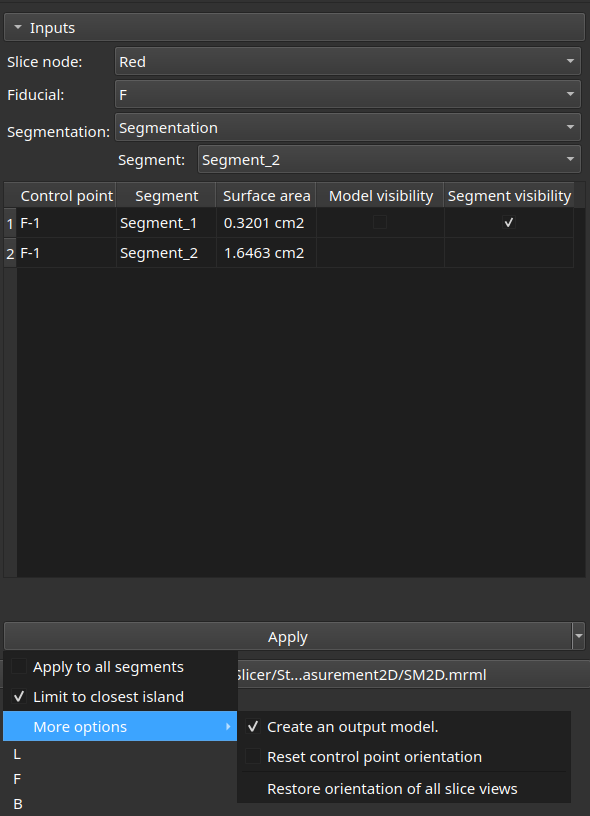
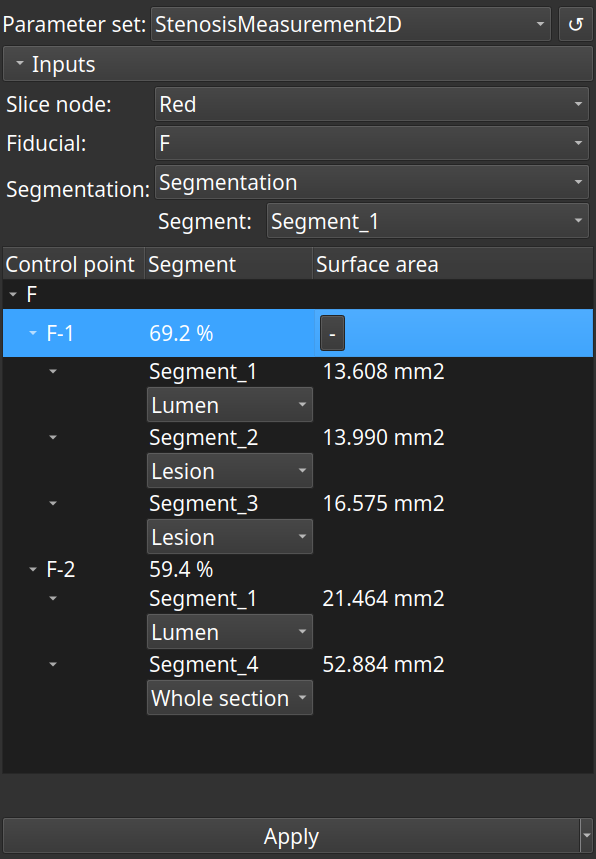
Allow to calculate the stenosis degree.
StenosisMeasurement2D

The stenosis degree is calculated from consistent categories assigned to
each measurement at a given location.

Pull request: StenosisMeasurement2D: Allow to calculate the stenosis degree
2bcec61 Use a QTreeWidget as the presentation table.
StenosisMeasurement2D

This widget is more flexible to add control widgets in the result rows.
\----------------------------

2ebdfc3 Allow to calculate the stenosis degree.
StenosisMeasurement2D

The stenosis degree is calculated from consistent categories assigned to
each measurement at a given location.
\----------------------------

diff --git a/StenosisMeasurement2D/StenosisMeasurement2D.py b/StenosisMeasurement2D/StenosisMeasurement2D.py
@@ -152,7 +152,7 @@ class StenosisMeasurement2DWidget(ScriptedLoadableModuleWidget, VTKObservationMi
     self.initializeParameterNode()
 
   # Show or hide the output model.
-  def onShowModelCheckBox2(self, checkStatus) -> None:
+  def onShowModelCheckBox(self, checkStatus) -> None:
     treeItem = self.ui.outputTreeWidget.currentItem()
     if (not treeItem):
       self.showStatusMessage((_("No item is currently selected in the tree widget."),), True)
@@ -162,7 +162,7 @@ class StenosisMeasurement2DWidget(ScriptedLoadableModuleWidget, VTKObservationMi
       cutModel.SetDisplayVisibility(checkStatus)
 
   # Show or hide the input segment.
-  def onShowSegmentCheckBox2(self, checkStatus) -> None:
+  def onShowSegmentCheckBox(self, checkStatus) -> None:
     segmentation = self.ui.inputSegmentSelector.currentNode()
     if not segmentation:
         self.showStatusMessage((_("Input segmentation is invalid"),), True)
@@ -220,6 +220,7 @@ class StenosisMeasurement2DWidget(ScriptedLoadableModuleWidget, VTKObservationMi
     """
     Called just after the scene is closed.
     """
+    self.ui.outputTreeWidget.clear()
     # If this module is shown while the scene is closed then recreate a new parameter node immediately
     if self.parent.isEntered:
       self.initializeParameterNode()
@@ -369,7 +370,7 @@ class StenosisMeasurement2DWidget(ScriptedLoadableModuleWidget, VTKObservationMi
         return item
     return None
 
-  # Get a tree item by the crontrol point ID it is referencing.
+  # Get a tree item by the control point ID it is referencing.
   def _getTreeItemByControlPointId(self, parentItem, controlPoindId):
     if (not parentItem) or (int(controlPoindId) < 0):
       return None
@@ -526,11 +527,11 @@ class StenosisMeasurement2DWidget(ScriptedLoadableModuleWidget, VTKObservationMi
         showSegmentAction = measurementControllerMenu.addAction(_("Segment visibility"))
         showSegmentAction.setObjectName(self.moduleName + ".ShowSegmentAction")
         showSegmentAction.setCheckable(True)
-        showSegmentAction.connect("toggled(bool)", self.onShowSegmentCheckBox2)
+        showSegmentAction.connect("toggled(bool)", self.onShowSegmentCheckBox)
         showModelAction = measurementControllerMenu.addAction(_("Model visibility"))
         showModelAction.setObjectName(self.moduleName + ".ShowModelAction")
         showModelAction.setCheckable(True)
-        showModelAction.connect("toggled(bool)", self.onShowModelCheckBox2)
+        showModelAction.connect("toggled(bool)", self.onShowModelCheckBox)
         measurementController.setMenu(measurementControllerMenu)
         measurementController.connect("clicked()", measurementController.showMenu)
         measurementControllerWidget = self._constrainWidgetInHLayout(measurementController)
@@ -544,6 +545,68 @@ class StenosisMeasurement2DWidget(ScriptedLoadableModuleWidget, VTKObservationMi
         measurementItem.setData(2, qt.Qt.UserRole, cutModel)
         area = areaUnitNode.GetDisplayStringFromValue(tuples[segmentID][0])
         measurementItem.setText(2, area)
+
+        # Add a combobox to define a measurement as category.
+        typeItem = qt.QTreeWidgetItem()
+        measurementItem.addChild(typeItem)
+        typeComboBox = qt.QComboBox()
+        typeComboBox.addItem(_("N/A"), TYPE_NA)
+        typeComboBox.addItem(_("Lumen"), TYPE_LUMEN)
+        typeComboBox.addItem(_("Lesion"), TYPE_LESION)
+        typeComboBox.addItem(_("Whole section"), TYPE_WHOLE_SECTION)
+        typeComboBox.setToolTip(_("Select a measurement category."))
+        outputTree.setItemWidget(typeItem, 1, typeComboBox)
+        # Store the calculated unformatted area,
+        typeItem.setData(1, qt.Qt.UserRole, tuples[segmentID][0])
+        # and the control point id.
+        typeItem.setData(0, qt.Qt.UserRole, self.currentControlPointID)
+        typeComboBox.connect("currentIndexChanged(int)", self.updateStenosis)
+
+  # Find the top level item of any tree item.
+  def _getTreeTopLevelItemByItem(self, item):
+    if (not item):
+      raise ValueError("Item is None.")
+    thisItem = item
+    while(thisItem.parent()):
+      thisItem = thisItem.parent()
+    return thisItem
+
+  # Calculate and show the stenosis degree.
+  def updateStenosis(self):
+    with slicer.util.tryWithErrorDisplay(_("Failed to collect data."), waitCursor=True):
+      outputTree = self.ui.outputTreeWidget
+      treeItem = outputTree.currentItem()
+      if (not treeItem):
+        raise RuntimeError(_("No row is selected in the result table."))
+      # Check that the selected item is the category one, because the combobox is connected to this function.
+      itemWidget = outputTree.itemWidget(treeItem, 1)
+      if (not itemWidget) or (itemWidget.className() != "QComboBox"):
+        raise RuntimeError(_("The current row of the result table does not describe the measurement type."))
+      controlPointId = treeItem.data(0, qt.Qt.UserRole)
+      topLevelItem = self._getTreeTopLevelItemByItem((treeItem))
+      controlPointItem = self._getTreeItemByControlPointId(topLevelItem, controlPointId)
+      # Get the control point item, so as to get the stored measurements.
+      if (not controlPointItem):
+        raise RuntimeError(_("Error getting the control point item of the result table."))
+      # Storage array for the areas by type.
+      typedAreas = vtk.vtkDoubleArray()
+      typedAreas.SetNumberOfComponents(2)
+      # From the control point item, get the measurements and the types.
+      for i in range(controlPointItem.childCount()):
+        measurementItem = controlPointItem.child(i)
+        typeItem = measurementItem.child(0)
+        if (not typeItem):
+          raise RuntimeError(_("The result table rows are inconsistent."))
+        area = typeItem.data(1, qt.Qt.UserRole)
+        typeComboBox = outputTree.itemWidget(typeItem, 1) # Should be the same as itemWidget.
+        typedAreas.InsertNextTuple((area, typeComboBox.currentData))
+
+      # Calculate and show the stenosis degree.
+      stenosis = self.logic.calculateStenosis(typedAreas) # May be None
+      stenosisFormatted = f"{stenosis * 100:.1f} %" if (stenosis is not None) else ""
+      controlPointItem.setData(1, qt.Qt.UserRole, stenosis)
+      controlPointItem.setText(1, stenosisFormatted)
+      controlPointItem.setToolTip(1, str(stenosis) if (stenosis is not None) else None)
 
   # messages is a sequence.
   def showStatusMessage(self, messages, console = False) -> None:
@@ -721,6 +784,48 @@ class StenosisMeasurement2DLogic(ScriptedLoadableModuleLogic):
         tuples[segmentID] = tuple
     return tuples
 
+  # Calculate the stenosis from the areas and their types.
+  def calculateStenosis(self, typedAreas : vtk.vtkDoubleArray) -> float:
+    if (not typedAreas) or (typedAreas.GetNumberOfComponents() != 2):
+      raise ValueError(_("The input typed area array is invalid."))
+    wholeSectionCount = 0
+    wholeSectionArea = 0.0
+    totalLesionArea = 0.0
+    totalLumenArea = 0.0
+    stenosis = None
+    # Sum up the areas by types.
+    for i in range(typedAreas.GetNumberOfTuples()):
+      tuple = typedAreas.GetTuple(i)
+      if (tuple[1] == TYPE_WHOLE_SECTION):
+        wholeSectionCount = wholeSectionCount + 1
+        if (wholeSectionCount > 1):
+          raise ValueError(_("There must not be more than one whole section input."))
+        wholeSectionArea = wholeSectionArea + tuple[0]
+      elif (tuple[1] == TYPE_LESION):
+        totalLesionArea = totalLesionArea + tuple[0]
+      elif (tuple[1] == TYPE_LUMEN):
+        totalLumenArea = totalLumenArea + tuple[0]
+      elif (tuple[1] == TYPE_NA):
+        pass
+      else:
+        raise ValueError(_("The input typed area array has invalid rows."))
+
+    if (wholeSectionCount): # Must be 1 or 0.
+      # If we have a whole section area and both lumen and lesion areas, prefer the lumen area.
+      if (totalLumenArea):
+        stenosis = (wholeSectionArea - totalLumenArea) / wholeSectionArea
+      else:
+        stenosis = totalLesionArea / wholeSectionArea
+    else:
+      # There is no whole section area; sum up the lumen and lesion areas.
+      denominator = totalLumenArea + totalLesionArea
+      if (denominator == 0.0):
+        # Don't raise an error for a UI reset to be possible silently.
+        logging.info(("Abort on division by zero."))
+        return None
+      stenosis = totalLesionArea / denominator
+
+    return stenosis # May be None
 #
 # StenosisMeasurement2DTest
 #
@@ -768,4 +873,10 @@ ROLE_APPLY_TO_ALL_SEGMENTS = "ApplyToAllSegments"
 ROLE_LIMIT_TO_CLOSEST_ISLAND = "LimitToClosestIsland"
 ROLE_CREATE_OUTPUT_MODEL = "CreateOutputModel"
 ROLE_RESET_ORIENTATION = "ResetControlPointOrientation"
+
+# Segment types
+TYPE_NA = 0
+TYPE_LUMEN = 1
+TYPE_LESION = 2
+TYPE_WHOLE_SECTION = 3
 

diff --git a/Docs/StenosisMeasurement2D.md b/Docs/StenosisMeasurement2D.md
@@ -1,6 +1,6 @@
 # Two dimensional stenosis measurement
 
-This [Slicer](https://www.slicer.org/) module calculates segment surface area cut by a slice plane. It is intended for quick two dimensional arterial stenosis evaluation, but is actually purpose agnostic.
+This [Slicer](https://www.slicer.org/) module calculates segment surface area cut by a slice plane. It is intended for quick two dimensional arterial stenosis evaluation, but is actually purpose agnostic. The stenosis degree can be calculated by specifying consistent measurement categories.
 
 **Usage**
 
@@ -16,7 +16,7 @@ Jumping to a ficucial point will reset the slice orientation as recorded.
 
 **Helper functions**
 
-. The 'Options' collapsible pane allows to :
+The 'Apply' button can show an 'Options' menu that allows to :
 
 - precise if the selected segment or all segments should be handled,
 - precise if all islands of a segment should be handled or only the one closest to the fiducial point,
@@ -24,22 +24,22 @@ Jumping to a ficucial point will reset the slice orientation as recorded.
 - precise if a model is created to view the surface from which the area is calculated,
 - restore all slice views to their default orientation.
 
-To reset the recorded slice orientation of a fiducial point, check the 'Reset' widget and click on a fiducial point. The next click on that fiducial point will record the current slice orientation. This allows to reformat a slice view again and record the current orientation.
+To reset the recorded slice orientation of a fiducial point, check the 'Reset' menu item and click on a fiducial point. The next click on that fiducial point will record the current slice orientation. This allows to reformat a slice view again and record the current orientation.
 
-. The 'Result table' allows to :
+The 'Result tree table' allows to :
 
-- remove the selected row and its referenced output model (contextual menu),
-- empty the table (contextual menu),
-- show/hide the input segments and output models.
+- remove any row and its siblings,
+- show/hide the input segments and output models from a menu in each measurement row,
+- assign a measurement to a category (lumen, lesion, whole section or N/A) to calculate the stenosis degree.
 
 **In practice**
 
-Orient a slice view perpendicular to the axis of a diseased artery by any means. If the lumen has not been segmented yet, draw a lumen segment using 'Scissors', with 'Fill inside', 'Symmetric' and 2 mm thickness. Likewise, draw a second segment using the arterial wall as perimeter. Then continue with a fiducial point as described above.
+Orient a slice view perpendicular to the axis of a diseased artery by any means. If the lumen has not been segmented yet, draw a lumen segment using 'Scissors', with 'Fill inside', 'Symmetric' and 2 mm thickness. Likewise, draw a second segment showing the arterial wall as perimeter. Then continue with a fiducial point as described above.
 
 **Notes**
 
-- The calculated area is influenced by the smoothing factor of the 3D representation of the segments. For accurate results, disable segment surface smoothing temporarily.
-- If a segment has a 'doughnut' shape, and 'Limit to closest island' is chosen, fiducial point placement is important. If it is close to the inner perimeter, the resulting surface will be the central hole only. If the control point is near to the outer perimeter, the resulting surface will include the central hole. Showing the created model helps to better understand what is being measured.
+- The calculated area is influenced by the smoothing algorithm and the smoothing factor of the 3D representation of the segments, the resolution of the input volume and the resolution of the segmentation.
+
 
 ## Acknowledgement
 